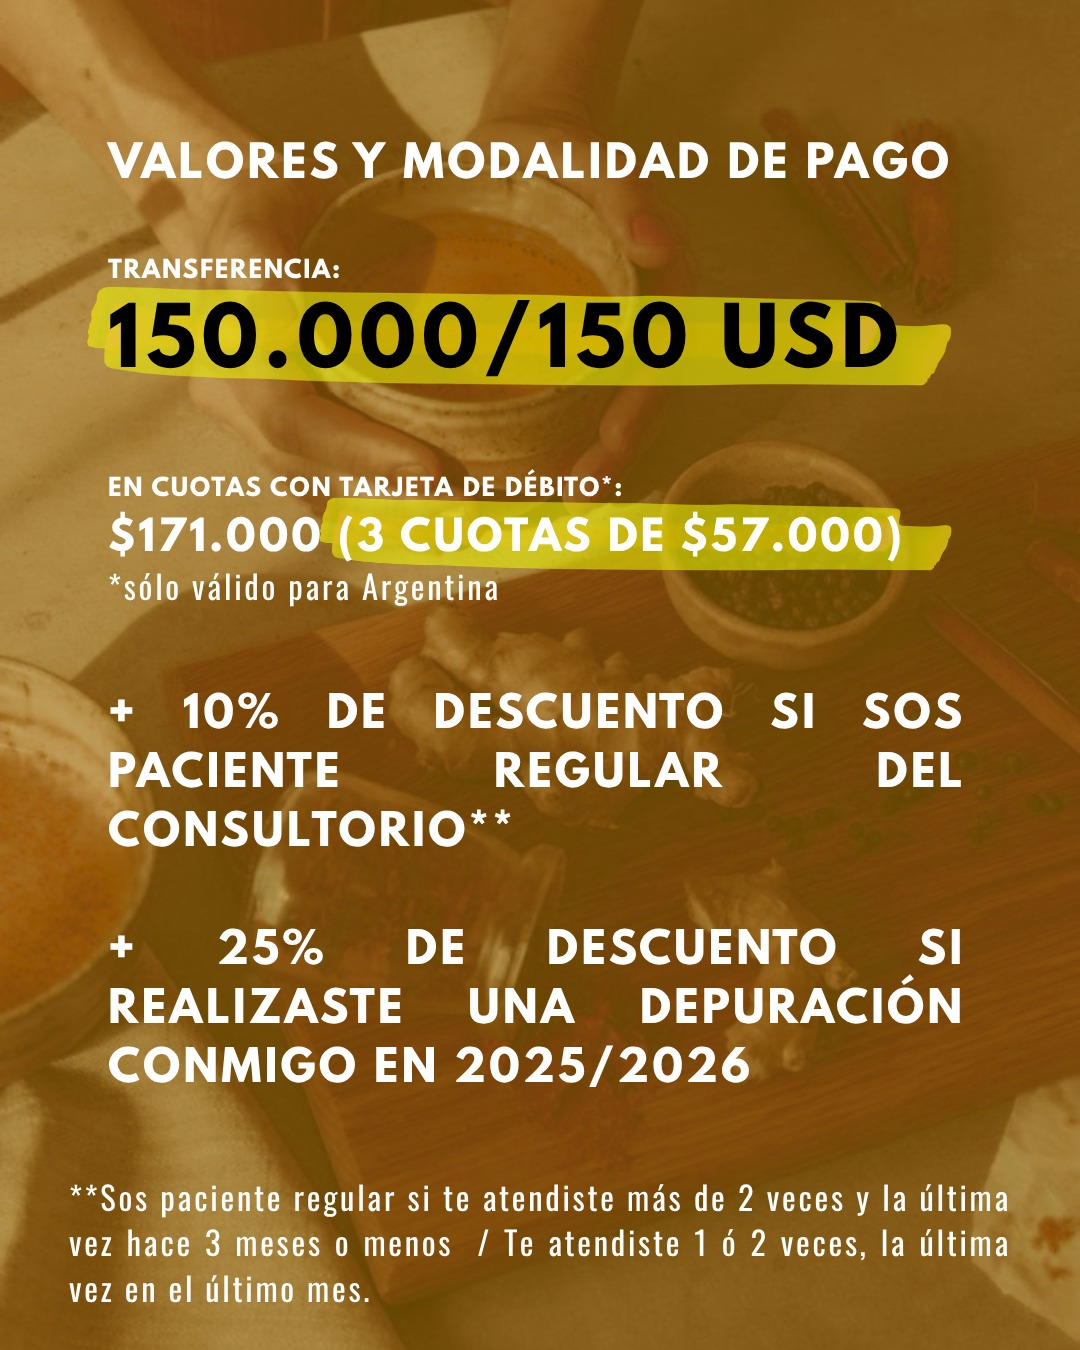
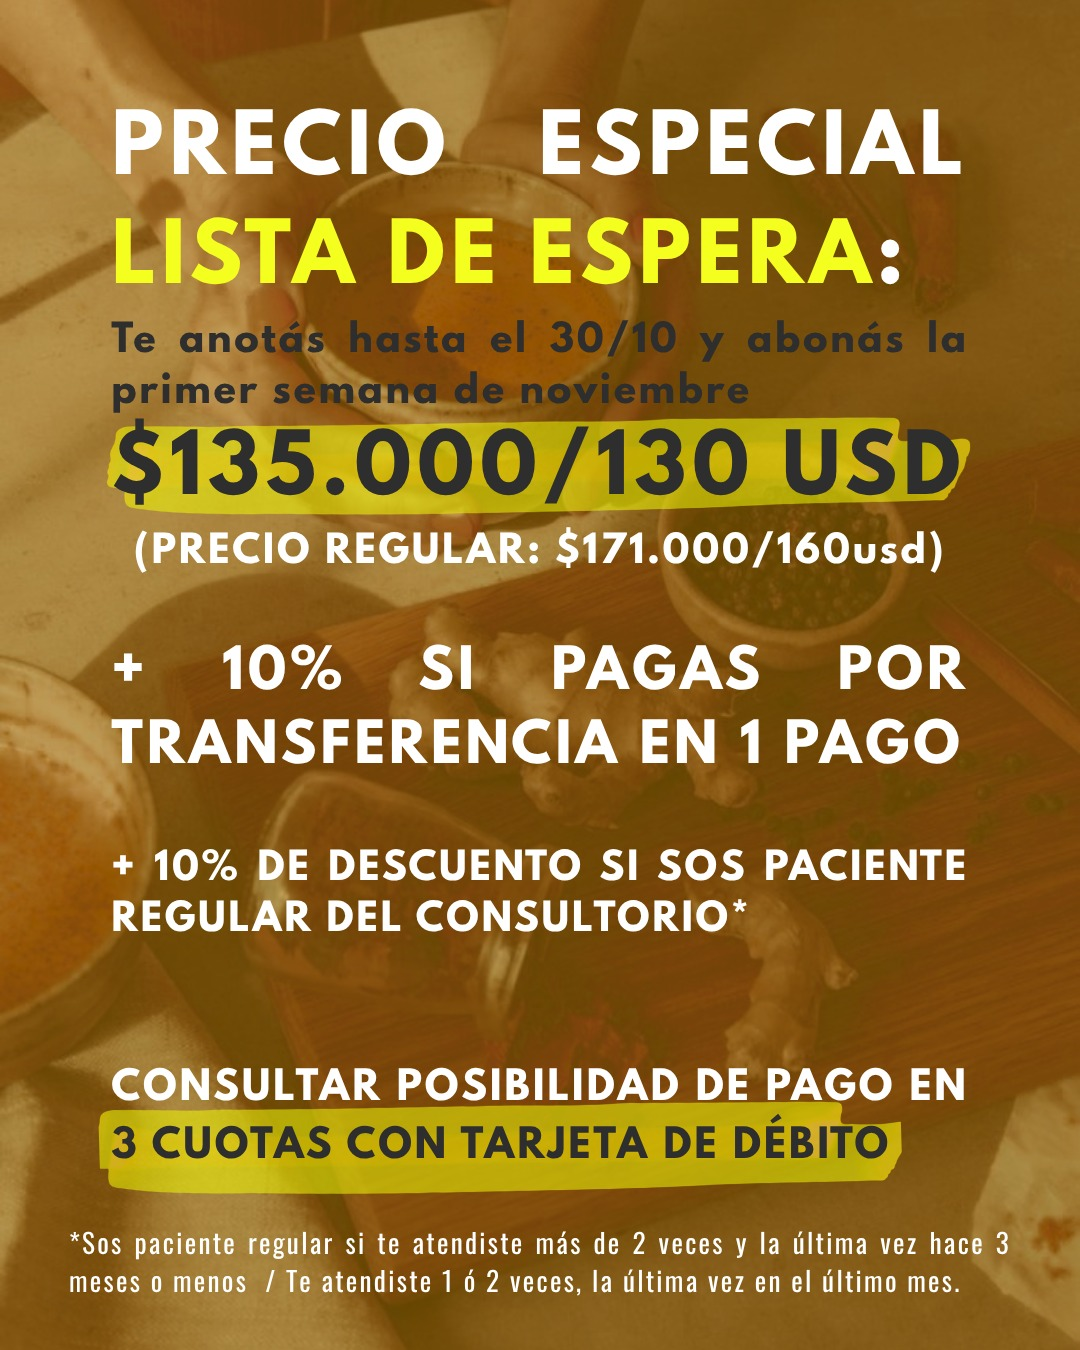
actualización depuración 2026 para noviembre

diff --git a/depuracion2026.html b/depuracion2026.html
@@ -265,7 +265,7 @@
   <div class="topbar">
     <div class="wrap">
       <div class="brand"><a href="index.html">Dra. Daniela Gayoso</a> · <span>Depuración Ayurveda</span></div>
-      <a class="btn btn-outline" href="#inscripcion">Inscribirme</a>
+      <a class="btn btn-outline" href="https://forms.gle/EgGZW83rGaawaiSC7" target="_blank" rel="noopener noreferrer">Anotarme en la lista de espera</a>
     </div>
   </div>
 
@@ -276,7 +276,7 @@
       <h1>Depuración Ayurveda: un retorno a tu <em>vitalidad natural</em></h1>
       <p class="lead">Programa grupal de 9 días con acompañamiento médico especializado para liberar toxinas, encender tu fuego digestivo y recuperar la claridad física y mental.</p>
       <div class="cta-row">
-        <a class="btn btn-sage" href="#inscripcion">Inscribirme a la Depuración</a>
+        <a class="btn btn-sage" href="#inscripcion">Anotarme en la lista de espera</a>
         <a class="btn btn-outline" href="#proceso">Más información</a>
       </div>
       <div class="meta-row">
@@ -357,7 +357,7 @@
       </div>
       <div class="process-layout">
         <div>
-          <svg viewBox="-12 -18 414 418" role="img" aria-label="Calendario circular del programa: 9 días, del sábado 26/09 al domingo 4/10, agrupados en 3 fases">
+          <svg viewBox="-12 -18 414 418" role="img" aria-label="Calendario circular del programa: 9 días, del martes 24/11 al miércoles 2/12, agrupados en 3 fases">
             <path d="M 195,75 A 120,120 0 1,1 117.84,103.08" fill="none" stroke="rgba(244,239,233,0.18)" stroke-width="1.5" />
             <text x="195" y="187" text-anchor="middle" font-family="Cormorant Garamond, serif" font-size="30" fill="#f4efe9">9</text>
             <text x="195" y="213" text-anchor="middle" font-family="Jost, sans-serif" font-size="11" letter-spacing="2" fill="#C0C68B">DÍAS</text>
@@ -386,17 +386,17 @@
             </g>
 
             <g font-family="Jost, sans-serif" font-size="10.5" text-anchor="middle" fill="#f4efe9" fill-opacity="0.72">
-              <text x="296.6" y="71">Dom 27/09</text>
-              <text x="350.6" y="164.5">Lun 28/09</text>
-              <text x="331.8" y="271">Mar 29/09</text>
-              <text x="249" y="340.5">Mié 30/09</text>
-              <text x="141" y="340.5">Jue 01/10</text>
-              <text x="58.2" y="271">Vie 02/10</text>
-              <text x="39.4" y="164.5">Sáb 03/10</text>
-              <text x="93.4" y="71">Dom 04/10</text>
+              <text x="296.6" y="71">Mié 25/11</text>
+              <text x="350.6" y="164.5">Jue 26/11</text>
+              <text x="331.8" y="271">Vie 27/11</text>
+              <text x="249" y="340.5">Sáb 28/11</text>
+              <text x="141" y="340.5">Dom 29/11</text>
+              <text x="58.2" y="271">Lun 30/11</text>
+              <text x="39.4" y="164.5">Mar 01/12</text>
+              <text x="93.4" y="71">Mié 02/12</text>
             </g>
 
-            <text x="195" y="24" text-anchor="middle" font-family="Jost, sans-serif" font-weight="700" font-size="16" fill="#C0C68B">Sáb 26/09</text>
+            <text x="195" y="24" text-anchor="middle" font-family="Jost, sans-serif" font-weight="700" font-size="16" fill="#C0C68B">Mar 24/11</text>
           </svg>
           <div class="cycle-legend">
             <span><i style="background:#C0C68B"></i>Preparación</span>
@@ -523,11 +523,12 @@
             <h2>Regalate 9 días para desintoxicar tu cuerpo y pausar la mente</h2>
             <div class="details">
               <div><strong>Duración:</strong> 9 días</div>
+              <div>Anotate gratis, sin realizar ningún pago, y accedé a un precio especial.</div>
               <div><strong>Modalidad:</strong> Online / acompañamiento en grupo</div>
               <div><strong>Incluye:</strong> guía del programa en PDF, recetario ayurvédico, guía de rutinas e infusiones, y espacio grupal de seguimiento con acompañamiento médico especializado</div>
             </div>
             <div class="closing-cta">
-              <a class="btn btn-sage" href="https://wa.me/541168763264?text=Me%20interesa%20saber%20sobre%20la%20depuraci%C3%B3n" target="_blank">Quiero inscribirme</a>
+              <a class="btn btn-sage" href="https://forms.gle/EgGZW83rGaawaiSC7" target="_blank" rel="noopener noreferrer">Anotarme en la lista de espera</a>
               <a class="btn btn-outline" href="https://dradanigayoso.com.ar" style="color:var(--deep); border-color:rgba(52,5,66,0.3);">Volver al sitio principal</a>
             </div>
           </div>
@@ -563,7 +564,7 @@
   </section>
 
   <footer>
-    <div class="wrap">© 2025 Dra. Daniela Gayoso · Depuración Ayurveda</div>
+    <div class="wrap">© 2026 Dra. Daniela Gayoso · Depuración Ayurveda</div>
   </footer>
 
 </body>
